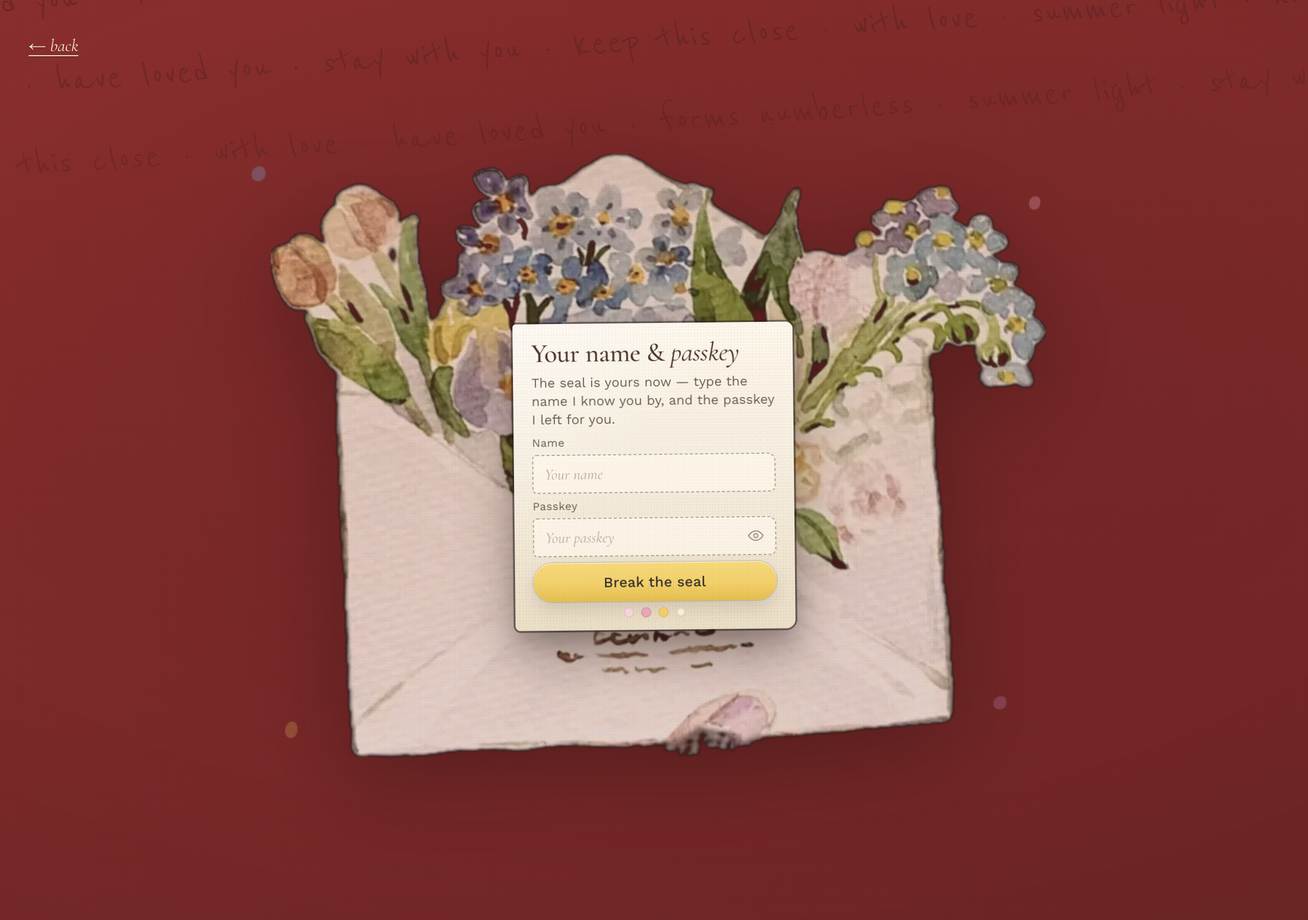
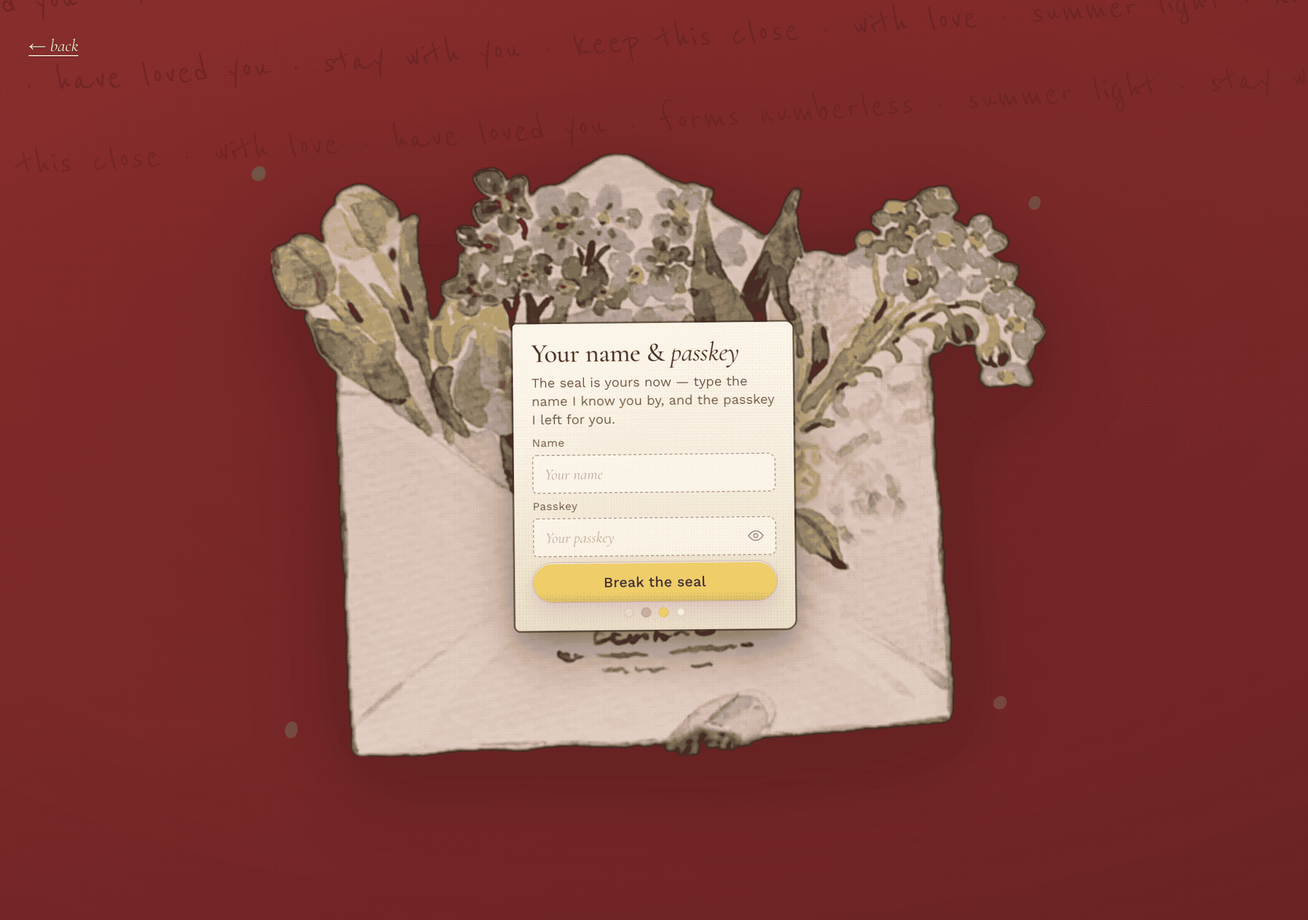
Remove dark mode overrides and regenerate README screenshots in light scheme.
The vintage cream palette is the design; drop prefers-color-scheme dark repaints,
pin Playwright captures to colorScheme light with neutral preview copy, and
compress the four preview PNGs under 500KB each.

diff --git a/assets/css/style.css b/assets/css/style.css
@@ -53,7 +53,7 @@
   --zh-serif: "Noto Serif SC", "Source Han Serif SC", "Songti SC", "SimSun", serif;
   --maxw: 1100px;
   --measure: 65ch;
-  --cache: 20260831b;
+  --cache: 20260901a;
   --floral-shadow: drop-shadow(0 4px 10px rgba(20, 8, 8, 0.22));
 
   /* Surfaces */
@@ -100,32 +100,7 @@
   --type-link-lh: 1.3;
   --type-link-style: italic;
 
-  color-scheme: light;
-}
-
-@media (prefers-color-scheme: dark) {
-  :root {
-    --paper: #2A2520;
-    --paper-2: #1F1B17;
-    --ink: #F0E6D8;
-    --ink-soft: #C4B8A8;
-    --ink-faint: rgba(240, 230, 216, 0.14);
-    --blush: #5C3D45;
-    --rose: #8E5A66;
-    --lemon: #8A7340;
-    --board: #141A16;
-    --cream-card: #332E28;
-    --letter-surface: #2E2924;
-    --type-ink: #F0E6D8;
-    --type-ink-warm: #E8DCC8;
-    --type-ink-soft: #C4B8A8;
-    --page-bg: linear-gradient(165deg, #1A1714 0%, #2A2520 45%, #1F1B17 100%);
-    --shadow-sm: 0 2px 8px rgba(0, 0, 0, 0.24);
-    --shadow-md: 0 8px 24px rgba(0, 0, 0, 0.32);
-    --shadow-lg: 0 18px 40px rgba(0, 0, 0, 0.4);
-    --shadow-xl: 0 24px 48px rgba(0, 0, 0, 0.48);
-    color-scheme: dark;
-  }
+  color-scheme: light only;
 }
 
 /* Shared type utilities — use on both seal + passkey surfaces */

diff --git a/index.html b/index.html
@@ -8,7 +8,7 @@
   <link rel="preconnect" href="https://fonts.googleapis.com" />
   <link rel="preconnect" href="https://fonts.gstatic.com" crossorigin />
   <link href="https://fonts.googleapis.com/css2?family=Caveat:wght@400;600&family=Cormorant+Garamond:ital,wght@0,400;0,500;0,600;1,400;1,500;1,600&family=Noto+Serif+SC:wght@400;500;600&family=Reenie+Beanie&family=Work+Sans:wght@300;400;500;600&display=swap" rel="stylesheet" />
-  <link rel="stylesheet" href="assets/css/style.css?v=20260831b" />
+  <link rel="stylesheet" href="assets/css/style.css?v=20260901a" />
 </head>
 <body>
   <div class="pink-veil" id="pink-veil" aria-hidden="true">

diff --git a/assets/js/app.js b/assets/js/app.js
@@ -905,6 +905,8 @@
   window.Lorina = {
     init,
     openSeal,
+    openMemories,
+    buildMemories,
     showView,
     clearPasskeyFields,
     state,
